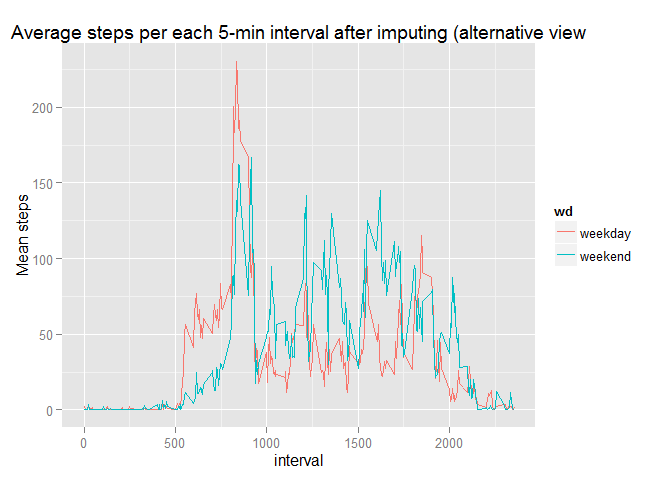
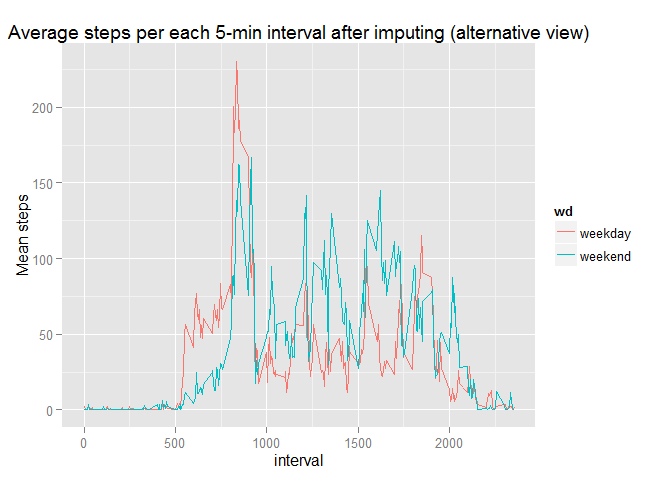
Second upload.
Forgot to knit before committing, hence this version.

Changed region(s): [[0.0, 0.0312, 0.875, 0.0938]]

diff --git a/PA1_template.html b/PA1_template.html
@@ -112,9 +112,7 @@ invisible(imputed[, mean.steps :=NULL])</code></pre>
 </div>
 <div id="are-there-differences-in-activity-patterns-between-weekdays-and-weekends" class="section level2">
 <h2>Are there differences in activity patterns between weekdays and weekends?</h2>
-<pre class="r"><code>imputed[, wd :=factor(ifelse(weekdays(date) %in% c(&quot;Saturday&quot;, &quot;Sunday&quot;), 
-                             &quot;weekend&quot;, 
-                             &quot;weekday&quot;))]</code></pre>
+<pre class="r"><code>imputed[, wd :=factor(ifelse(weekdays(date) %in% c(&quot;Saturday&quot;, &quot;Sunday&quot;), &quot;weekend&quot;,  &quot;weekday&quot;))]</code></pre>
 <pre><code>##        interval  steps       date      wd
 ##     1:        0  1.717 2012-10-01 weekday
 ##     2:        0  0.000 2012-10-02 weekday
@@ -137,9 +135,10 @@ ggplot(inter2,aes(x=interval,y=mean.steps))+geom_line()+
   facet_grid(wd ~ .)</code></pre>
[1 lines of base64/hex data omitted]
 <pre class="r"><code>ggplot(inter2,aes(x=interval,y=mean.steps, group=wd, color=wd))+geom_line()+
-  ggtitle(&quot;Average steps per each 5-min interval after imputing (alternative view&quot;)+
+  ggtitle(&quot;Average steps per each 5-min interval after imputing (alternative view)&quot;)  +
   ylab(&quot;Mean steps&quot;) </code></pre>
[2 lines of base64/hex data omitted]
+<p>The exporatory plots indicate as expected differing activity patterns. During weekdays activity is hgher in the earlier part of the days (walking to the office? or jogging before work?) and then sharply decreases (maybe an office job?). In weekends the activity is spead more evenly. That makes sense.</p>
 </div>
 
 

diff --git a/PA1_template.md b/PA1_template.md
@@ -102,9 +102,7 @@ After imputing the mean total number of steps taken per day is  **10766.19** (co
 
 
 ```r
-imputed[, wd :=factor(ifelse(weekdays(date) %in% c("Saturday", "Sunday"), 
-                             "weekend", 
-                             "weekday"))]
+imputed[, wd :=factor(ifelse(weekdays(date) %in% c("Saturday", "Sunday"), "weekend",  "weekday"))]
 ```
 
 ```
@@ -137,11 +135,14 @@ ggplot(inter2,aes(x=interval,y=mean.steps))+geom_line()+
 
 ```r
 ggplot(inter2,aes(x=interval,y=mean.steps, group=wd, color=wd))+geom_line()+
-  ggtitle("Average steps per each 5-min interval after imputing (alternative view")+
+  ggtitle("Average steps per each 5-min interval after imputing (alternative view)")  +
   ylab("Mean steps") 
 ```
 
 ![plot of chunk unnamed-chunk-5](./PA1_template_files/figure-html/unnamed-chunk-52.png) 
 
 
+The exporatory plots indicate as expected differing activity patterns. 
+During weekdays activity is hgher in the earlier part of the days (walking to the office? or jogging before work?) and then sharply decreases (maybe an office job?). 
+In weekends the activity is spead more evenly. That makes sense.
 
